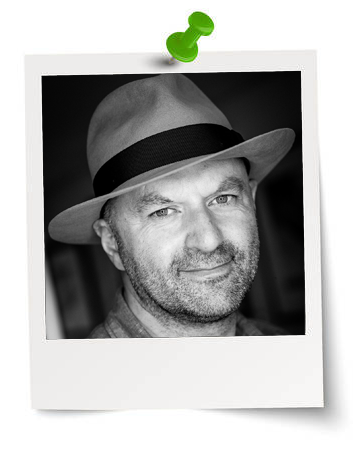
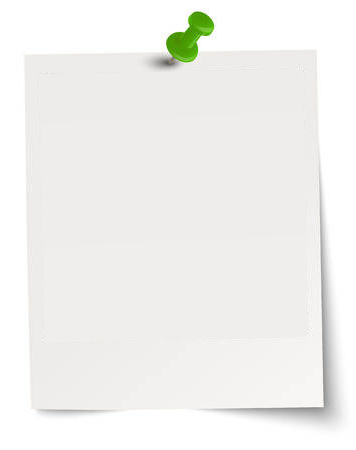
Update home and welcome page

diff --git a/IanPortfolio/static/css/style.css b/IanPortfolio/static/css/style.css
@@ -3,6 +3,7 @@ body {
   line-height: 1.7;
   color: #4d4d4d;
   font-size: 1rem;
+  text-align: justify;
 }
 
 ::-moz-selection {
@@ -1649,14 +1650,6 @@ a:hover {
   color: #00782A !important;
 }
 
-.pic {
-  -webkit-animation: fadein 2s;
-  /*Safari,ChromeandOpera>12.1*/-moz-animation: fadein 10s;
-  /*Firefox<16*/-ms-animation: fadein 10s;
-  /*InternetExplorer*/-o-animation: fadein 10s;
-  /*Opera<12.1*/animation: fadein 10s;
-}
-
 @keyframes fadein {
   from { opacity: 0; }
   to   { opacity: 1; }
@@ -1686,6 +1679,70 @@ a:hover {
   to   { opacity: 1; }
 }
 
+/*Header Carousel*/
+
+.tech-slideshow {
+  height: 60vh;  
+  max-width: 2000px;  
+  margin: 0 auto;
+  position: relative;  
+  overflow: hidden;  
+  transform: translate3d(0, 0, 0);
+  margin-top: 2rem;
+  border: 0.5rem solid #dfedfc;
+}
+.tech-slideshow > div {
+  height: 60vh;  
+  width: 8000px;  
+  transform: translate3d(0, 0, 0);
+  background: url(../images/panoramic.png);
+  background-size: cover;
+  background-position: center center;
+  background-repeat: no-repeat;
+  position: absolute;  
+  top: 0;  
+  left: 0;  
+  height: 100%;
+}
+.tech-slideshow .mover-1 {
+  animation: moveSlideshow 30s linear infinite;
+  -webkit-animation: moveSlideshow 30s linear infinite;
+}
+@keyframes moveSlideshow {
+  100% { 
+    transform: translateX(-66.6666%);  
+  }
+}
+
+/*Welcome*/
+
+.frame {
+  position: relative;
+  width: 350px;
+  height: 450px;
+  background: url(../images/pic.png);
+  margin: 0 auto;
+}
+
+.pic {
+  -webkit-animation: fadein 2s;
+  /*Safari,ChromeandOpera>12.1*/-moz-animation: fadein 10s;
+  /*Firefox<16*/-ms-animation: fadein 10s;
+  /*InternetExplorer*/-o-animation: fadein 10s;
+  /*Opera<12.1*/animation: fadein 10s;
+  position: absolute;
+  top: 4.5rem;
+  left: 50%;
+  width: 250px;
+  height: 300px;
+  margin-left: auto;
+  margin-right: auto;
+  transform: translate(-50%, 0) rotate(-1deg);
+  -webkit-transform: translate(-50%, 0) rotate(-1deg);
+  -moz-transform: translate(-50%, 0) rotate(-1deg);
+  -ms-transform: translate(-50%, 0) rotate(-1deg);
+  -o-transform: translate(-50%, 0) rotate(-1deg);
+}
 @media only screen and (max-width: 1199px) {
   .logo-nav {
     display: inline-block;

diff --git a/templates/pages/welcome.html b/templates/pages/welcome.html
@@ -4,7 +4,7 @@
 {% block content %}
 <div class="container-fluid">
                 <div class="row about">
-                                <div class="col-12 col-lg-4">
+                                <div class="col-12 col-xl-4">
                                         <p>Thanks for taking the time to look at my work.<br/><br/>
                                                 I’m always looking for ways to improve the service I offer so all comments,
                                                 compliments or criticisms are welcome, though as Noel Cowerd said ’I can
@@ -16,10 +16,12 @@
                                                 Thanks for visiting</p>
                                                 <img src="{% static '/images/signature.jpg' %}" alt="" class="img-fluid signature"/>
                                 </div>
-                                <div class="col-12 col-lg-4 img">
-                                        <img src="{% static '/images/pic.png' %}" alt="pic" class="pic img-fluid"/>
+                                <div class="col-12 col-xl-4 img">
+                                        <div class="frame">
+                                                <img src="{% static '/images/pic2.png' %}" alt="pic" class="pic img-fluid"/>
+                                        </div>
                                 </div>
-                                <div class="col-12 col-lg-4">
+                                <div class="col-12 col-xl-4">
                                         <p><strong class="since">Since you ask…</strong><br/><br/>
 
                                                 Born & raised in Scotland, I completed a B.Sc in Pure Mathematics before relocating to London to study photojournalism and launch my photographic career in 1985<br/><br/>

diff --git a/templates/pages/index.html b/templates/pages/index.html
@@ -2,7 +2,11 @@
 {% extends 'base.html' %}
 {% load static %}
 {% block content %}
-<div class="container-fluid main-img"></div>
+<!-- <div class="container-fluid main-img"></div> -->
+<div class="tech-slideshow">
+  <div class="mover-1"></div>
+<!--   <div class="mover-2"></div> -->
+</div>
 <div class="quote">
   <p>
     I don't know what London's coming to - the higher the buildings the
